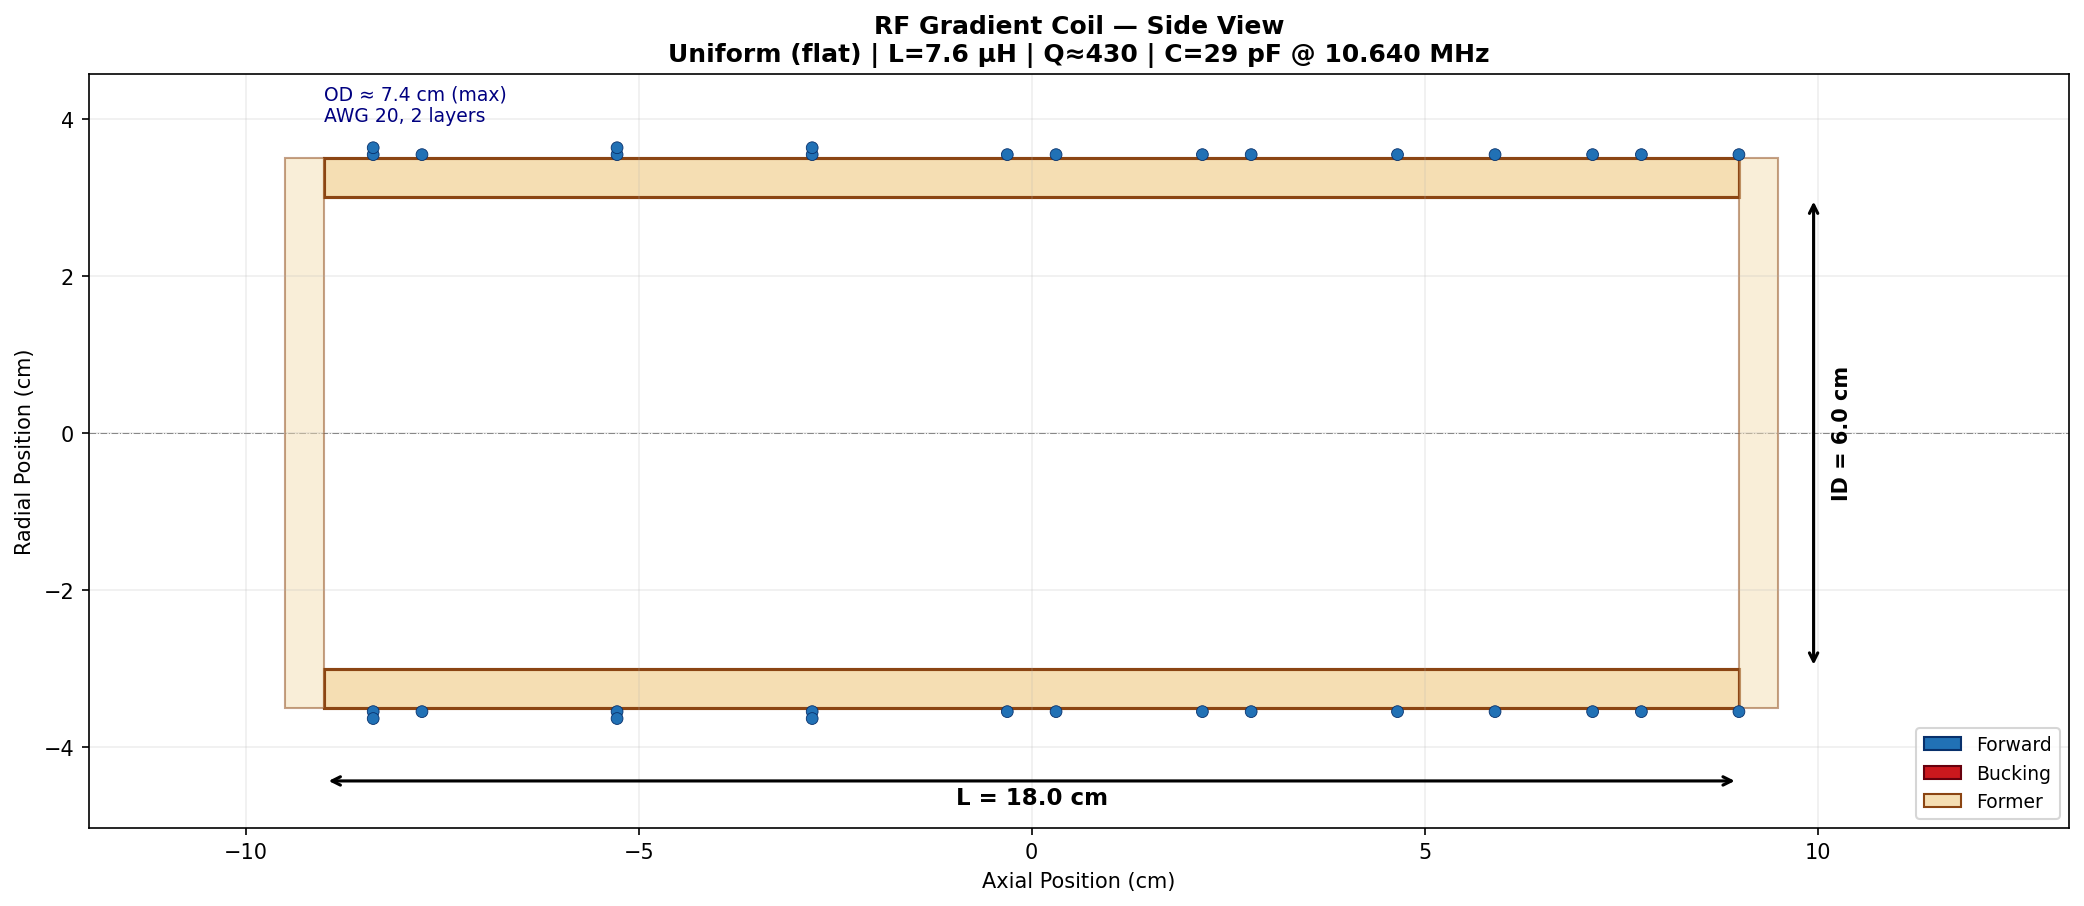
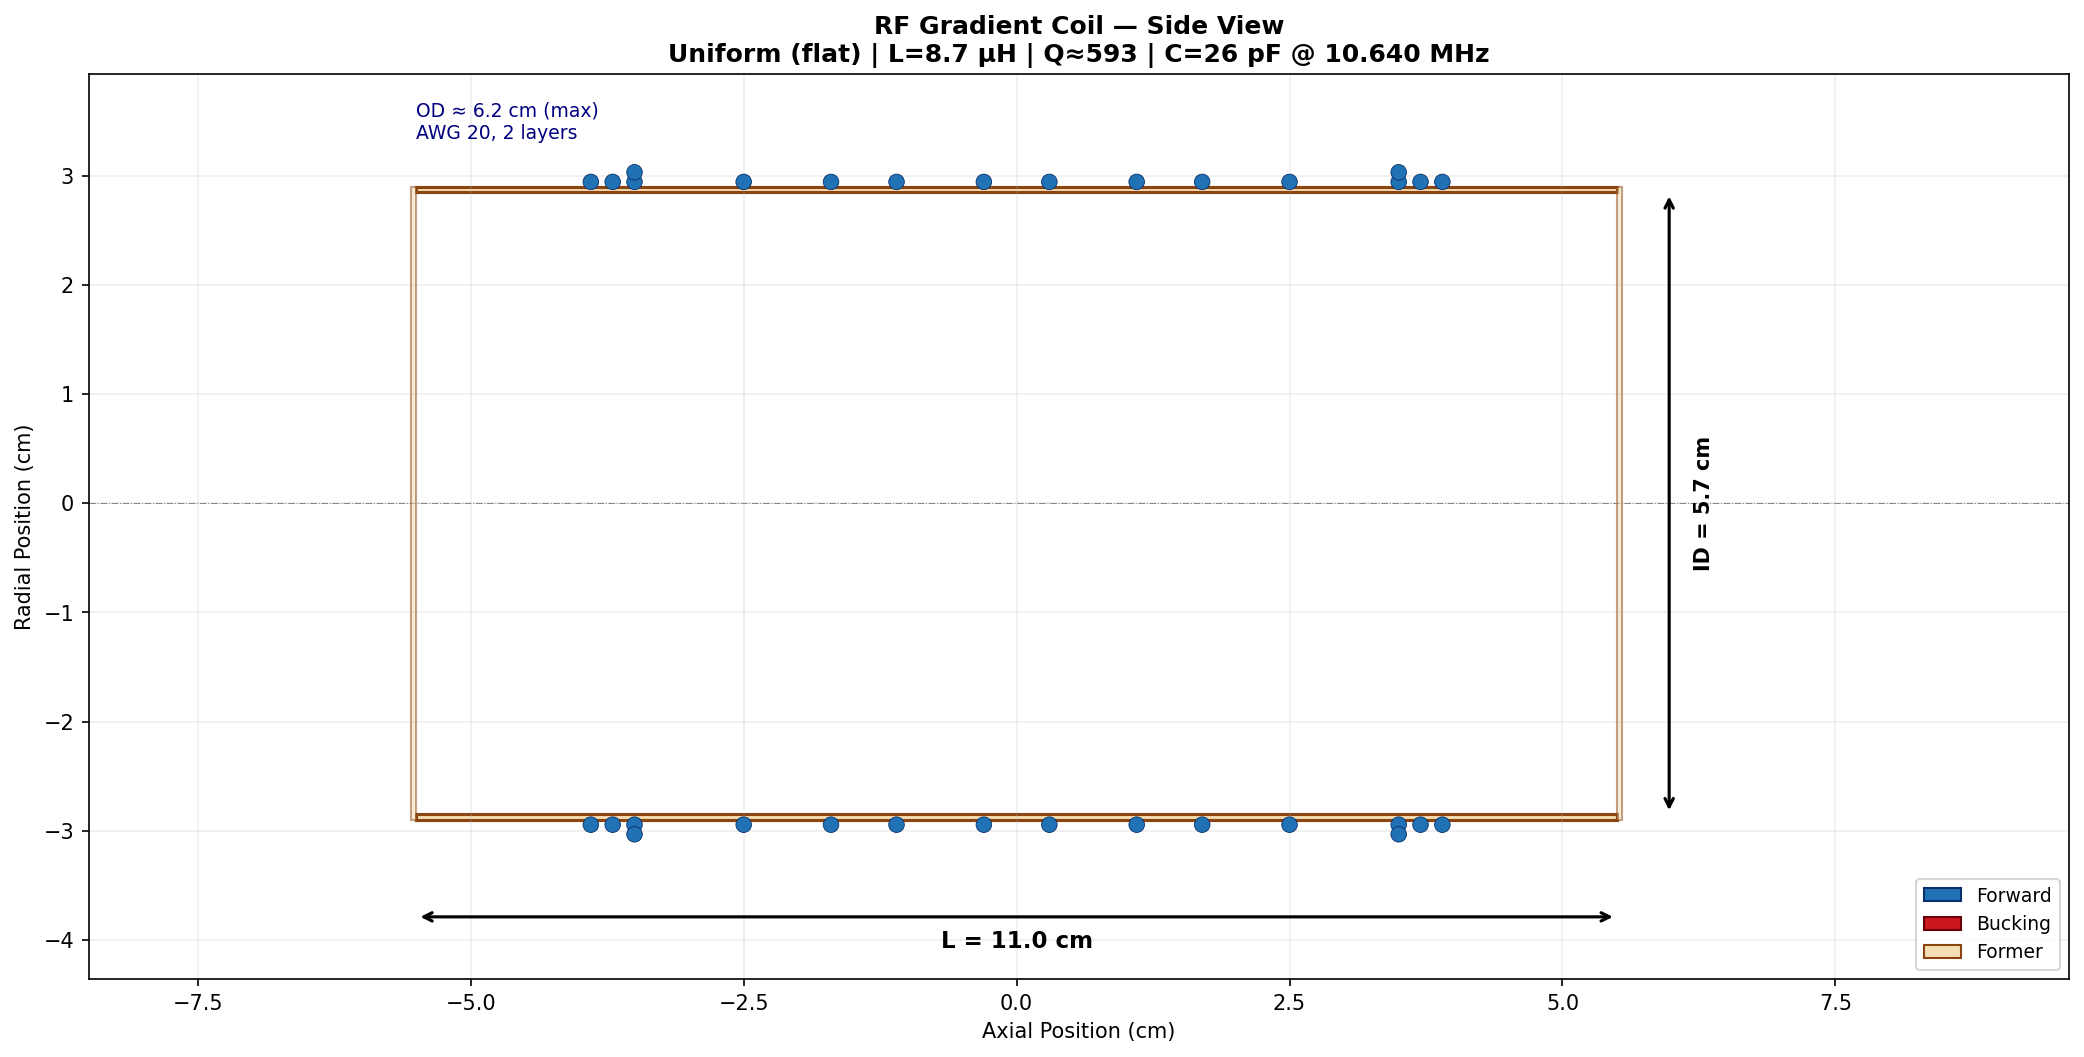
Parameterize original script to champion #287 and regenerate figures
Set coil_optimisation_v1.3_DIYMRI.py to champion #287 geometry (L=110 mm,
ID 57 mm, former 0.5 mm, M=56, AWG 20) and inject its fixed 16-turn symmetric
winding, bypassing the on-axis CBC ILP (which hangs on this machine and would
otherwise produce a different, on-axis-only pattern). Evaluate over the +-20 mm
design FoV. Regenerated 01-06 figures now match #287 (L=8.67 uH, C=25.8 pF,
Q=593, 0.21% on-axis error over the FoV).

Changed region(s): [[0.0312, 0.0, 0.9981, 0.8035], [0.0312, 0.8035, 0.9981, 0.989], [0.0, 0.4018, 0.0624, 0.6181]]

diff --git a/coil_optimisation_v1.3_DIYMRI.py b/coil_optimisation_v1.3_DIYMRI.py
@@ -18,13 +18,13 @@ mpl.rcParams['savefig.dpi'] = 150
 # 1. COIL PARAMETERS — CHANGE THESE
 # =============================================================================
 
-coil_length = 0.18         # meters
-coil_radius = 0.03         # meters (inner radius where windings start)
-M = 30                     # number of grooves
+coil_length = 0.110        # meters  (CHAMPION #287)
+coil_radius = 0.0285       # meters (inner radius) -> ID 57 mm
+M = 56                     # number of grooves
 N = 60                     # number of field evaluation points
 n_max = 2                  # max forward windings per groove
 n_min = -2                 # max bucking windings per groove
-former_thickness = 0.005   # 5 mm
+former_thickness = 0.0005  # 0.5 mm
 
 # AWG 20 wire
 wire_diameter_bare = 0.812e-3
@@ -73,7 +73,10 @@ def get_groove_positions(coil_length, M, spacing='sqrt'):
         raise ValueError(f"Unknown spacing: {spacing}")
 
 groove_positions = get_groove_positions(coil_length, M, GROOVE_SPACING)
-x_eval = np.linspace(-coil_length / 2 * 0.8, coil_length / 2 * 0.8, N)
+# Evaluate over the champion design FoV (+-20 mm), not the full coil, so the
+# error panel reflects the usable homogeneous region.
+FOV_HALF = 0.020
+x_eval = np.linspace(-FOV_HALF, FOV_HALF, N)
 
 # =============================================================================
 # 4. TARGET FIELD PROFILE
@@ -189,11 +192,23 @@ def optimize_coil_windings(B_matrix, B_target, n_max=4, n_min=-4, allow_bucking=
     return n_windings, max_rel_error
 
 print("\n" + "="*50)
-print("RUNNING OPTIMIZATION...")
+print("USING CHAMPION DESIGN #287 (3D-optimized winding)")
 print("="*50)
-n_windings, max_error = optimize_coil_windings(
-    B_matrix_valid, B_target_valid, n_max=n_max, n_min=n_min, allow_bucking=ALLOW_BUCKING
-)
+# Fixed winding pattern from the 3D bore-volume optimizer (coil_core.py).
+# Bypasses the on-axis ILP so these figures show the ACTUAL champion coil:
+# 16 turns, mirror-symmetric, max 2 layers. 0.42% 3D B1 homogeneity.
+CHAMPION_WINDINGS = [0, 0, 0, 0, 0, 0, 0, 0, 1, 1, 2, 0, 0, 0, 0, 1, 0, 0, 0, 1,
+                     0, 0, 1, 0, 0, 0, 1, 0, 0, 1, 0, 0, 0, 1, 0, 0, 1, 0, 0, 0,
+                     1, 0, 0, 0, 0, 2, 1, 1, 0, 0, 0, 0, 0, 0, 0, 0]
+n_windings = np.array(CHAMPION_WINDINGS)
+assert len(n_windings) == M, f"winding length {len(n_windings)} != M {M}"
+# Show the display target as the mean on-axis field (uniform), so the error
+# panel reports true homogeneity (deviation from mean) for this fixed winding.
+_B_axis = B_matrix @ n_windings
+_mean = _B_axis[valid_mask].mean()
+B_target_scaled = np.full_like(x_eval, _mean)
+valid_mask = B_target_scaled > 1e-12
+max_error = float(np.max(np.abs((_B_axis - _mean) / _mean)))
 
 n_forward = np.maximum(n_windings, 0)
 n_bucking = np.minimum(n_windings, 0)
